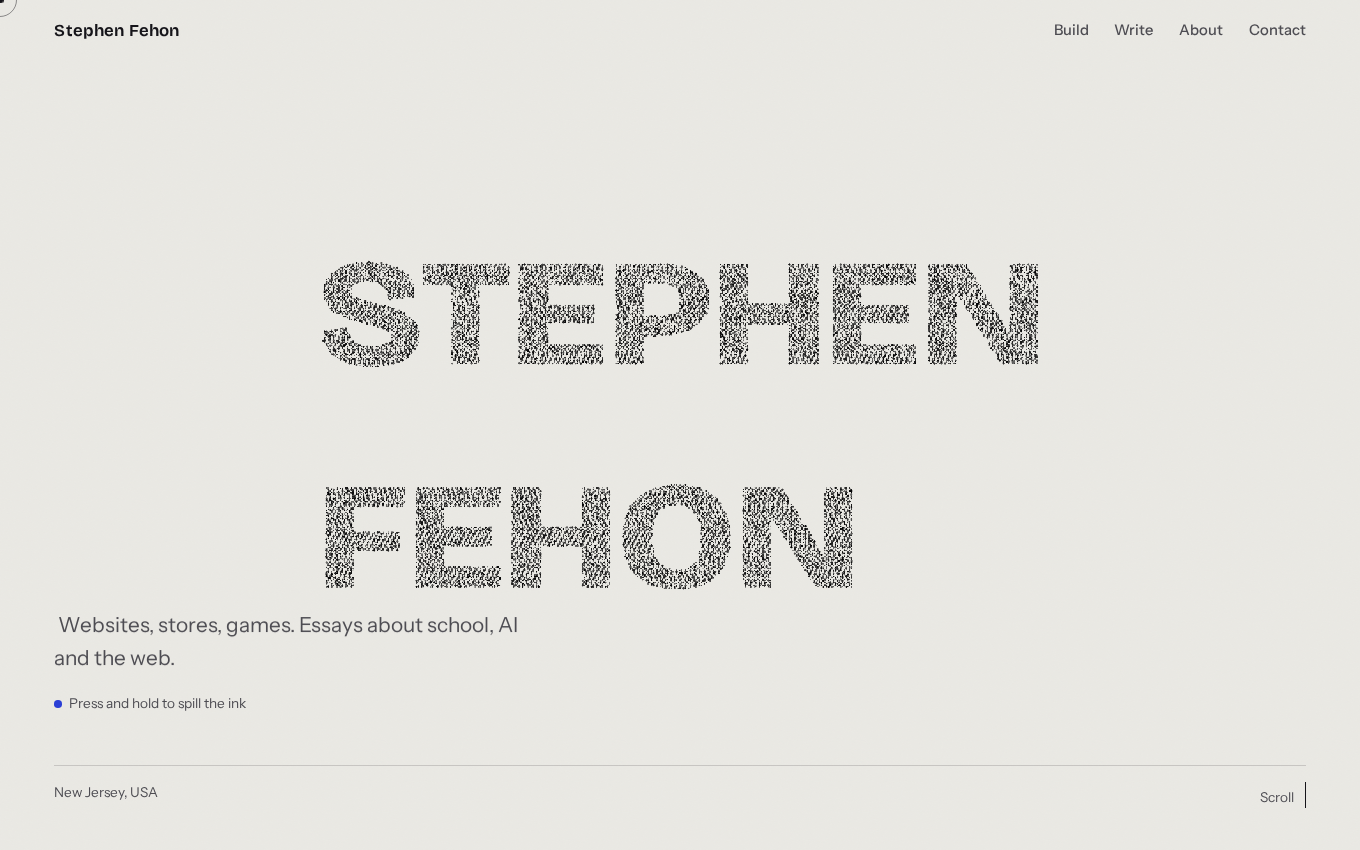
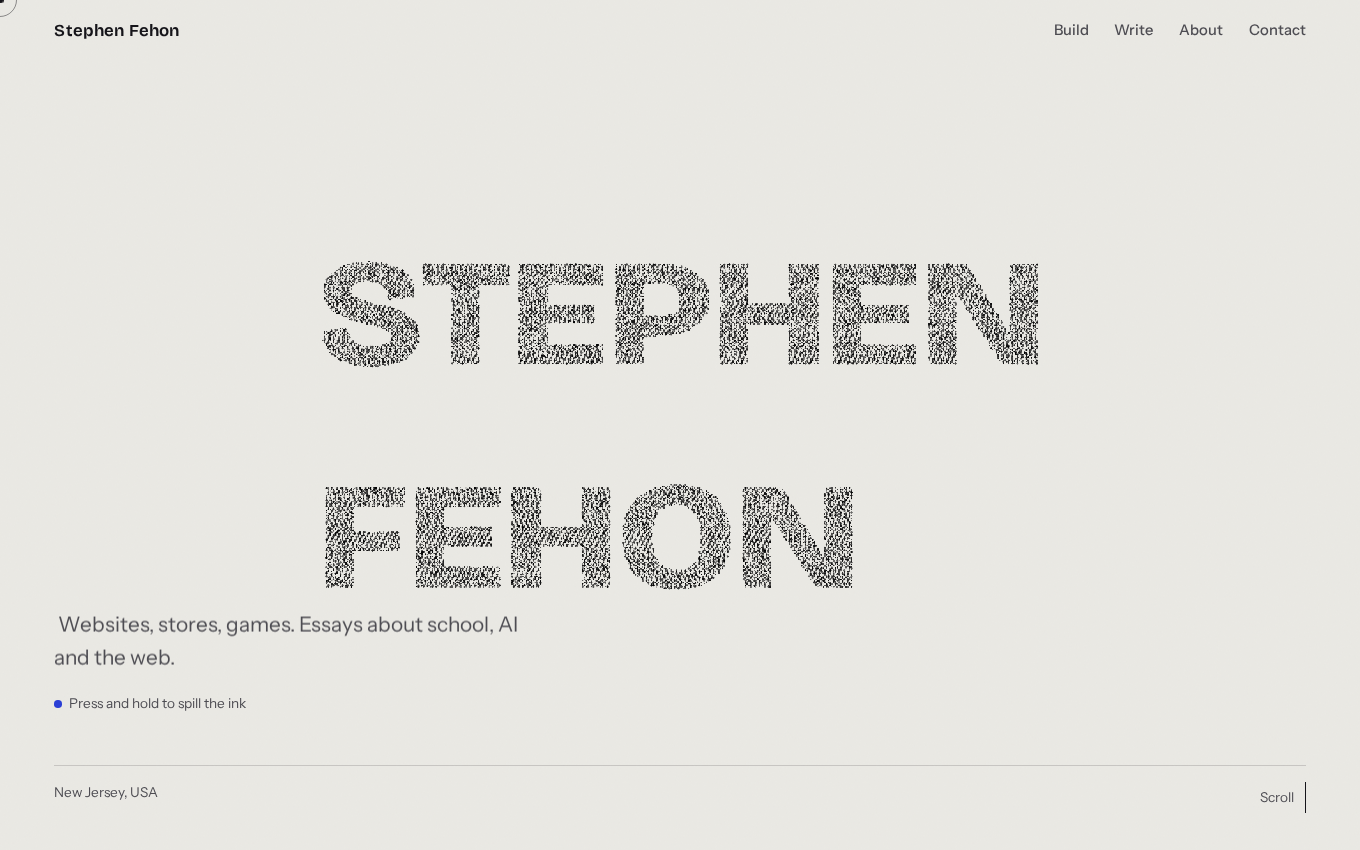
Scroll turbulence + build notes

diff --git a/dist/assets/index-jKx42kL6.js b/dist/assets/index-jKx42kL6.js
@@ -1,0 +1,19 @@
+import{g as d,S as X}from"./gsap-CiEuWA-R.js";import{L as Ee}from"./lenis-9qxpAu3p.js";import{W as Le,S as qe,O as Te,B as Ae,a as $,C as pe,b as ke,P as Ce}from"./three-R4PpNUKA.js";(function(){const r=document.createElement("link").relList;if(r&&r.supports&&r.supports("modulepreload"))return;for(const o of document.querySelectorAll('link[rel="modulepreload"]'))t(o);new MutationObserver(o=>{for(const n of o)if(n.type==="childList")for(const s of n.addedNodes)s.tagName==="LINK"&&s.rel==="modulepreload"&&t(s)}).observe(document,{childList:!0,subtree:!0});function i(o){const n={};return o.integrity&&(n.integrity=o.integrity),o.referrerPolicy&&(n.referrerPolicy=o.referrerPolicy),o.crossOrigin==="use-credentials"?n.credentials="include":o.crossOrigin==="anonymous"?n.credentials="omit":n.credentials="same-origin",n}function t(o){if(o.ep)return;o.ep=!0;const n=i(o);fetch(o.href,n)}})();const Pe=[{lines:["STEPHEN","FEHON"],weight:800,tracking:"0em"},{lines:["BUILD"],weight:800,tracking:"0.02em"},{lines:["WRITE"],weight:800,tracking:"0.02em"},null,{lines:["SAY HELLO"],weight:800,tracking:"0em"}];function Ve(e,r,i){const o=document.createElement("canvas"),n=o.getContext("2d",{willReadFrequently:!0});n.font=`800 ${Math.floor(420*.72)}px "Bricolage Grotesque"`,"letterSpacing"in n&&(n.letterSpacing=i);let s=0;for(const l of e)s=Math.max(s,n.measureText(l).width);o.width=Math.ceil(s+80),o.height=420*e.length+40;const c=o.getContext("2d");c.font=`800 ${Math.floor(420*.72)}px "Bricolage Grotesque"`,"letterSpacing"in c&&(c.letterSpacing=i),c.textBaseline="middle",c.fillStyle="#000";const y=o.height/e.length;e.forEach((l,S)=>c.fillText(l,40,y*(S+.5)));const v=c.getImageData(0,0,o.width,o.height).data,h=[],U=3;for(let l=0;l<o.height;l+=U)for(let S=0;S<o.width;S+=U)v[(l*o.width+S)*4+3]>110&&h.push(S,l);let R=1e9,L=-1e9,g=1e9,W=-1e9;for(let l=0;l<h.length;l+=2)R=Math.min(R,h[l]),L=Math.max(L,h[l]),g=Math.min(g,h[l+1]),W=Math.max(W,h[l+1]);const z=L-R,B=W-g,u=1/Math.max(z,B),p=new Float32Array(h.length);for(let l=0;l<h.length;l+=2)p[l]=((h[l]-R)/z-.5)*(z*u)*2,p[l+1]=-(((h[l+1]-g)/B-.5)*(B*u)*2);return{pts:p,count:h.length/2,aspect:z/B}}function Oe(e){const r=new Float32Array(e*2),i=2,t=3,o=.42,n=.16;for(let s=0;s<e;s++){const c=s/e*Math.PI*2*6,y=(o+n*Math.cos(t*c))*Math.cos(i*c),v=(o+n*Math.cos(t*c))*Math.sin(i*c),h=.05;r[s*2]=y+(Math.random()-.5)*h,r[s*2+1]=v+(Math.random()-.5)*h}return{pts:r,count:e,aspect:1}}async function Fe(e){let r;try{r=new Le({canvas:e,alpha:!0,antialias:!1,powerPreference:"high-performance"})}catch{return null}if(!r)return null;r.setClearColor(0,0);try{await document.fonts.load('800 300px "Bricolage Grotesque"'),await document.fonts.ready}catch{}const t=window.innerWidth<768?7e3:16e3,o=new qe,n=new Te(-1,1,1,-1,-10,10),s=[];for(const a of Pe){if(a===null){s.push(Oe(t));continue}const m=Ve(a.lines,800,a.tracking);s.push(m)}const c=s.map(a=>{const m=new Float32Array(t*2);for(let q=0;q<t;q++){const Y=q*7919%a.count;m[q*2]=a.pts[Y*2],m[q*2+1]=a.pts[Y*2+1]}return m}),y=new Float32Array(t*3),v=new Float32Array(t*3),h=new Float32Array(t),U=new Float32Array(t),R=new Float32Array(t);for(let a=0;a<t;a++)y[a*3]=(Math.random()-.5)*4,y[a*3+1]=(Math.random()-.5)*3,y[a*3+2]=0,h[a]=Math.random(),U[a]=.6+Math.random()*.9;const L=new Float32Array(t*2);for(let a=0;a<t*2;a++)L[a]=(Math.random()-.5)*4;const g=new Ae;g.setAttribute("position",new $(y,3)),g.setAttribute("aVel",new $(R,1)),g.setAttribute("aSeed",new $(h,1)),g.setAttribute("aSize",new $(U,1));const W={uScale:{value:1},uInk:{value:new pe("#16151a")},uUltra:{value:new pe("#2b3fd6")}},z=new ke({uniforms:W,transparent:!0,depthWrite:!1,vertexShader:`
+      attribute float aVel; attribute float aSeed; attribute float aSize;
+      uniform float uScale; varying float vVel; varying float vSeed;
+      void main() {
+        vVel = aVel; vSeed = aSeed;
+        vec4 mv = modelViewMatrix * vec4(position, 1.0);
+        gl_PointSize = aSize * uScale;
+        gl_Position = projectionMatrix * mv;
+      }`,fragmentShader:`
+      uniform vec3 uInk; uniform vec3 uUltra;
+      varying float vVel; varying float vSeed;
+      void main() {
+        vec2 d = gl_PointCoord - 0.5;
+        float m = smoothstep(0.5, 0.28, length(d));
+        if (m < 0.01) discard;
+        vec3 col = mix(uInk, uUltra, clamp(vVel * 2.2, 0.0, 1.0) * 0.9);
+        float a = m * (0.55 + 0.45 * fract(vSeed * 7.13));
+        gl_FragColor = vec4(col, a);
+      }`}),B=new Ce(g,z);o.add(B);const u={morph:0,assemble:0,hold:0,holdV:0,turb:0,running:!0},p={x:9999,y:9999,tx:9999,ty:9999};let l=1,S=1;function ie(){const a=e.clientWidth||window.innerWidth,m=e.clientHeight||window.innerHeight;l=a,S=m,r.setPixelRatio(Math.min(window.devicePixelRatio||1,1.75)),r.setSize(a,m,!1),n.left=-a/2,n.right=a/2,n.top=m/2,n.bottom=-m/2,n.updateProjectionMatrix(),W.uScale.value=m/900*r.getPixelRatio()*2.1}ie();function ye(a){return{x:a.clientX-l/2,y:-(a.clientY-S/2)}}function se(a){const m=ye(a);p.tx=m.x,p.ty=m.y}function we(){p.tx=9999,p.ty=9999}function ce(a){a.target.closest&&a.target.closest("a, button, input, textarea, select")||(u.holdV=1,a.target)}function ee(){u.holdV=0}window.addEventListener("pointermove",se,{passive:!0}),window.addEventListener("pointerdown",ce,{passive:!0}),window.addEventListener("pointerup",ee,{passive:!0}),window.addEventListener("pointercancel",ee,{passive:!0}),document.addEventListener("mouseleave",we);let H=0;function ve(a){if(!u.running)return;H+=a,p.x+=(p.tx-p.x)*.18,p.y+=(p.ty-p.y)*.18,u.hold+=(u.holdV-u.hold)*(u.holdV>u.hold?.08:.045);const m=Math.max(0,Math.min(u.morph,s.length-1)),q=Math.floor(m),Y=Math.min(q+1,s.length-1),Se=m-q;g.attributes.position.array;const xe=g.attributes.aVel.array,te=.8,be=u.assemble,le=u.hold,de=H*.55;for(let f=0;f<t;f++){const I=f*3,G=I+1,oe=I+2,x=h[f];let b=(Se-x*.35)/(1-.35);b=b<0?0:b>1?1:b,b=b*b*(3-2*b);const ne=Math.max(0,Math.min((be-x*.4)/.6,1)),ue=ne*ne*(3-2*ne),j=c[q],he=c[Y];let _=j[f*2]+(he[f*2]-j[f*2])*b,D=j[f*2+1]+(he[f*2+1]-j[f*2+1])*b;const N=Math.min(l*.46,S*.42);_*=N,D*=N*.86,_=L[f*2]*N*1.6+(_-L[f*2]*N*1.6)*ue,D=L[f*2+1]*N*1.2+(D-L[f*2+1]*N*1.2)*ue;let T=y[I],A=y[G],M=v[I],w=v[G],K=v[oe];M+=(_-T)*.085,w+=(D-A)*.085,M+=Math.sin(de+x*40+T*.004)*.012,w+=Math.cos(de*.8+x*61+A*.004)*.012;const re=T-p.x,ae=A-p.y,me=re*re+ae*ae;if(me<32400){const E=Math.sqrt(me)||1,k=(180-E)/180;M+=re/E*k*2.4,w+=ae/E*k*2.4}if(u.turb>.01){const E=u.turb;w-=E*(.4+x*1.1)*1.5,M+=Math.sin(H*7+x*47+A*.01)*E*.8,w+=Math.cos(H*5.5+x*31+T*.01)*E*.4}if(le>.01){const E=Math.sqrt(T*T+A*A)||1,k=le*(.35+x*.65);M+=T/E*k*2.6+Math.sin(H*3+x*90)*k,w+=A/E*k*2.6+Math.cos(H*2.4+x*70)*k,K+=k*.4}M*=te,w*=te,K*=te,T+=M,A+=w,y[I]=T,y[G]=A,y[oe]+=K*.1,v[I]=M,v[G]=w,v[oe]=K;const Me=Math.sqrt(M*M+w*w);xe[f]=Math.min(1,Me*.14)}g.attributes.position.needsUpdate=!0,g.attributes.aVel.needsUpdate=!0,r.render(o,n)}return document.addEventListener("visibilitychange",()=>{u.running=!document.hidden}),{state:u,resize:ie,frame:ve,reveal(){u.assemble=1e-4},dispose(){window.removeEventListener("pointermove",se),window.removeEventListener("pointerdown",ce),window.removeEventListener("pointerup",ee),r.dispose()}}}d.registerPlugin(X);const P=window.matchMedia("(prefers-reduced-motion: reduce)").matches,Z=window.matchMedia("(hover: none), (pointer: coarse)").matches;P&&document.body.classList.add("reduced");Z&&document.body.classList.add("touch");let F=null,C=null;P?ge():Fe(document.getElementById("ink")).then(e=>{if(!e)document.body.classList.add("no-gl");else{F=e,C=e.state;const r=[...document.querySelectorAll("[data-chapter]")].map(t=>({el:t,to:parseFloat(t.dataset.chapter)})),i=()=>{if(!C)return;const t=window.innerHeight;let o=0;for(const n of r){const s=n.el.getBoundingClientRect().top,c=Math.min(1,Math.max(0,(t*.95-s)/(t*.7)));c>0&&(o=n.to-1+c)}C.morph=o};X.create({trigger:document.body,start:"top top",end:"bottom bottom",onUpdate:i,onRefresh:i}),i()}ge()});let O=null;if(!P){O=new Ee({lerp:.1,wheelMultiplier:1}),O.on("scroll",X.update),d.ticker.add(r=>O.raf(r*1e3)),d.ticker.lagSmoothing(0);let e=0;d.ticker.add(()=>{if(F&&C&&C.running){if(O&&C.turb!==void 0){const r=Math.min(1.2,Math.abs(O.velocity||0)/70);e+=(r-e)*.12,C.turb=e}F.frame(d.ticker.deltaRatio(60)/60)}}),window.addEventListener("resize",()=>F&&F.resize())}document.querySelectorAll('a[href^="#"]').forEach(e=>{e.addEventListener("click",r=>{const i=e.getAttribute("href"),t=document.querySelector(i);t&&(r.preventDefault(),O?O.scrollTo(t,{offset:0,duration:1.4}):t.scrollIntoView({behavior:"smooth"}))})});function Re(e){const r=e.textContent;e.setAttribute("aria-label",r),e.textContent="",r.split(/\s+/).forEach((i,t,o)=>{const n=document.createElement("span");n.className="w";const s=document.createElement("span");s.className="wi",s.textContent=i,n.appendChild(s),e.appendChild(n),t<o.length-1&&e.appendChild(document.createTextNode(" "))})}document.querySelectorAll(".reveal").forEach(Re);document.querySelectorAll(".chapter-lede, .about-body p").forEach(e=>{e.classList.contains("reveal")&&d.fromTo(e.querySelectorAll(".wi"),{yPercent:115},{yPercent:0,stagger:.012,duration:.9,ease:"power3.out",scrollTrigger:{trigger:e,start:"top 85%"}})});document.querySelectorAll(".chapter-title, .chapter-no").forEach(e=>{d.fromTo(e,{y:60,opacity:0},{y:0,opacity:1,duration:1,ease:"power3.out",scrollTrigger:{trigger:e,start:"top 88%"}})});const J=document.querySelector("[data-gallery]");if(J&&!P){const e=J.querySelector(".gallery-track"),r=()=>e.scrollWidth-window.innerWidth;d.to(e,{x:()=>-r(),ease:"none",scrollTrigger:{trigger:J,start:"top top",end:()=>"+="+r(),pin:!0,scrub:.6,invalidateOnRefresh:!0,anticipatePin:1}}),d.utils.toArray(".card").forEach((i,t)=>{d.fromTo(i.querySelector(".card-media"),{scale:.94},{scale:1,ease:"none",scrollTrigger:{trigger:J,start:"top top",end:()=>"+="+r(),scrub:.6}})})}const Q=document.querySelector("[data-essays]"),V=document.querySelector(".essay-preview");if(Q&&V&&!Z){const e=V.querySelector("img"),r=["/img/cover-notes.png","/img/cover-sites.png","/img/cover-game.png"],i=d.quickTo(V,"x",{duration:.45,ease:"power3"}),t=d.quickTo(V,"y",{duration:.45,ease:"power3"});let o=!1;Q.addEventListener("pointermove",n=>{i(n.clientX+24),t(n.clientY-120)}),Q.querySelectorAll(".essay").forEach((n,s)=>{n.addEventListener("mouseenter",()=>{e.src=r[s%r.length],o||(d.to(V,{opacity:1,scale:1,duration:.4,ease:"power3.out"}),o=!0)})}),Q.addEventListener("mouseleave",()=>{d.to(V,{opacity:0,scale:.96,duration:.3,ease:"power2.in"}),o=!1}),d.set(V,{scale:.96})}if(!Z){const e=document.createElement("div");e.className="cursor",e.innerHTML='<span class="cursor-dot"></span><span class="cursor-ring"></span>',document.body.appendChild(e);const r=e.querySelector(".cursor-dot"),i=e.querySelector(".cursor-ring"),t=d.quickTo(r,"x",{duration:.12,ease:"power2"}),o=d.quickTo(r,"y",{duration:.12,ease:"power2"}),n=d.quickTo(i,"x",{duration:.4,ease:"power3"}),s=d.quickTo(i,"y",{duration:.4,ease:"power3"});window.addEventListener("pointermove",c=>{t(c.clientX),o(c.clientY),n(c.clientX),s(c.clientY)},{passive:!0}),document.querySelectorAll("a, button").forEach(c=>{c.addEventListener("mouseenter",()=>e.classList.add("is-link")),c.addEventListener("mouseleave",()=>e.classList.remove("is-link"))}),window.addEventListener("pointerdown",()=>e.classList.add("is-hold")),window.addEventListener("pointerup",()=>e.classList.remove("is-hold"))}!Z&&!P&&document.querySelectorAll("[data-magnetic]").forEach(e=>{e.addEventListener("mousemove",i=>{const t=e.getBoundingClientRect(),o=i.clientX-t.left-t.width/2,n=i.clientY-t.top-t.height/2;d.to(e,{x:o*.35,y:n*.35,duration:.4,ease:"power3.out"})}),e.addEventListener("mouseleave",()=>{d.to(e,{x:0,y:0,duration:.7,ease:"elastic.out(1, 0.4)"})})});const We=document.querySelector(".progress span");X.create({start:0,end:"max",onUpdate:e=>d.set(We,{scaleX:e.progress})});let fe=!1;function ge(){if(fe)return;fe=!0;const e=document.querySelector(".loader"),r=document.querySelector(".loader-count"),i={n:0},t=d.timeline();t.to(i,{n:100,duration:P?.2:1.3,ease:"power2.inOut",onUpdate:()=>{r.textContent=String(Math.round(i.n)).padStart(3,"0")}}),P||t.to(e.querySelector(".loader-inner"),{y:-40,opacity:0,duration:.5,ease:"power2.in"},"+=0.15"),t.to(e,{yPercent:-100,duration:P?.2:.9,ease:"power4.inOut"}),t.set(e,{display:"none"}),t.fromTo(".hero-sub, .hero-hint, .hero-foot",{y:30,opacity:0},{y:0,opacity:1,duration:.9,stagger:.08,ease:"power3.out"},"-=0.5"),t.call(()=>{F&&(F.reveal(),d.to(C,{assemble:1,duration:2,ease:"power2.inOut"}))},null,.1)}X.refresh();

diff --git a/src/ink.js b/src/ink.js
@@ -163,7 +163,7 @@ export async function createInk(canvas) {
   const points = new THREE.Points(geo, material);
   scene.add(points);
 
-  const state = { morph: 0, assemble: 0, hold: 0, holdV: 0, running: true };
+  const state = { morph: 0, assemble: 0, hold: 0, holdV: 0, turb: 0, running: true };
   const mouse = { x: 9999, y: 9999, tx: 9999, ty: 9999 };
   let vw = 1, vh = 1;
 
@@ -253,6 +253,13 @@ export async function createInk(canvas) {
         const f2 = (180 - d) / 180;
         vx += (dx / d) * f2 * 2.4;
         vy += (dy / d) * f2 * 2.4;
+      }
+      // scroll turbulence: fast scrolling drags the ink upward and sideways
+      if (state.turb > 0.01) {
+        const tr = state.turb;
+        vy -= tr * (0.4 + s * 1.1) * 1.5;
+        vx += Math.sin(t * 7 + s * 47 + py * 0.01) * tr * 0.8;
+        vy += Math.cos(t * 5.5 + s * 31 + px * 0.01) * tr * 0.4;
       }
       // hold: spill outward with noise
       if (hold > 0.01) {

diff --git a/dist/index.html b/dist/index.html
@@ -12,7 +12,7 @@
   <link rel="preconnect" href="https://fonts.googleapis.com" />
   <link rel="preconnect" href="https://fonts.gstatic.com" crossorigin />
   <link href="https://fonts.googleapis.com/css2?family=Bricolage+Grotesque:opsz,wght@12..96,300..800&family=Instrument+Sans:ital,wght@0,400..700;1,400&display=swap" rel="stylesheet" />
-  <script type="module" crossorigin src="./assets/index-CmckJ9Hd.js"></script>
+  <script type="module" crossorigin src="./assets/index-jKx42kL6.js"></script>
   <link rel="modulepreload" crossorigin href="./assets/gsap-CiEuWA-R.js">
   <link rel="modulepreload" crossorigin href="./assets/lenis-9qxpAu3p.js">
   <link rel="modulepreload" crossorigin href="./assets/three-R4PpNUKA.js">

diff --git a/src/main.js b/src/main.js
@@ -55,8 +55,16 @@ if (!reduced) {
   gsap.ticker.add((time) => lenis.raf(time * 1000));
   gsap.ticker.lagSmoothing(0);
   // render loop for ink runs on the same ticker
+  let turbSmooth = 0;
   gsap.ticker.add(() => {
-    if (ink && inkState && inkState.running) ink.frame(gsap.ticker.deltaRatio(60) / 60);
+    if (ink && inkState && inkState.running) {
+      if (lenis && inkState.turb !== undefined) {
+        const target = Math.min(1.2, Math.abs(lenis.velocity || 0) / 70);
+        turbSmooth += (target - turbSmooth) * 0.12;
+        inkState.turb = turbSmooth;
+      }
+      ink.frame(gsap.ticker.deltaRatio(60) / 60);
+    }
   });
   window.addEventListener('resize', () => ink && ink.resize());
 }

diff --git a/NOTES.md b/NOTES.md
@@ -1,0 +1,80 @@
+# Inkfall: build notes
+
+Portfolio one-pager for Stephen Fehon. Built after studying Lorenzo Lottici's
+award-winning site (lorenzolottici.it/en) and the techniques behind sites of
+that kind. This file records the study, what was borrowed, what was
+deliberately different, and how the build maps to it.
+
+## What the reference site does
+
+Walkthrough of all five pages (home, services, work, path, pensiero,
+lets-talk) with screenshots:
+
+- Dark near-black theme (#070707), Archivo + JetBrains Mono type.
+- An entry gate before the site: a LISTEN/SILENT choice (stored in
+  sessionStorage) and an "it/en" language gate. The copy carries a theme of
+  order vs chaos.
+- "Press and hold to break the order": holding the pointer disturbs a 3D
+  element; it settles back on release. The same hold-to-disturb idea repeats
+  across pages.
+- A 3D character model (skeleton GLB at /modelli/omino-scheletro.glb with a
+  .bin companion) that reacts to the page.
+- Work is a 3D carousel of seven project cards with query-param deep links
+  (?p=roxam and so on), so each card has its own URL.
+- Pensiero (thinking) is a set of essay subpages.
+- Let's talk is a conversational four-question form instead of a raw form.
+- Under the hood: Next.js with WebGL (Three.js) scenes, smooth-scroll
+  libraries, and scroll-linked GSAP animation. The public pattern for this
+  class of site is a fixed full-screen WebGL canvas behind the DOM, Lenis or
+  locomotive-scroll for smooth scrolling, GSAP ScrollTrigger driving
+  scrubbed timelines, and GLSL-driven particles or meshes.
+
+## What Inkfall takes from that class of site
+
+- One fixed WebGL canvas behind the whole page, thousands of shader-driven
+  particles, scroll-linked state changes, a preloader, smooth scrolling,
+  custom cursor, and a "press and hold" disturbance.
+
+## What Inkfall deliberately does differently
+
+- Light cool vellum paper with blue-black ink and one ultramarine accent.
+  The reference is near-black; this site is its opposite pole so it never
+  reads as a copy.
+- The particles are typography. They assemble into STEPHEN FEHON, then
+  morph BUILD, WRITE, a torus knot, and SAY HELLO as chapters scroll by.
+  Sampling runs offscreen on a canvas, maps glyph pixels to particle
+  targets, and a spring integrator moves each particle per frame.
+- Assembling into your own name rather than hosting a GLB character: no
+  external model to download, and the identity is the content.
+- Scroll turbulence: fast scrolling drags the ink upward and sideways
+  (velocity from the smooth scroller, smoothed, fed into the particle
+  loop). The reference disturbs on press and hold; this reacts to how you
+  scroll too.
+- Works gallery is a pinned horizontal track, not a 3D carousel: simpler,
+  and deep-linkable later if it ever becomes separate pages.
+- No gate before the site. The preloader counts, the ink assembles behind
+  it, and you are in.
+
+## Implementation map
+
+- src/ink.js: WebGL layer. Offscreen text sampling to particle targets,
+  per-particle spring integration, pointer repulsion, hold-to-spill,
+  scroll turbulence, assemble-on-load. Returns null when WebGL is
+  unavailable; the page then shows a static headline (body.no-gl).
+- src/main.js: Lenis smooth scroll wired into one GSAP ticker; a single
+  scroll read (not competing tweens, which left morph stuck at the last
+  created tween's start value) computes the chapter morph; split-word
+  reveals; pinned horizontal gallery; cursor and magnetic hover; loader
+  timeline.
+- reduced-motion: the WebGL layer and smooth scroll are skipped entirely
+  and the page renders as a clean static document.
+- Build: Vite, chunks split (three, gsap, lenis). No tracking, no cookies.
+
+## Ideas if this grows
+
+- Per-project case-study pages built as argument pages (problem, decisions,
+  tradeoffs, honest outcome ledger) rather than galleries.
+- Deep links for gallery cards (?p=fehonfinds) mirroring the reference's
+  work-carousel URLs.
+- An it/en-style gate is not needed; a dark mode variant of the ink could
+  be a fun toggle.
